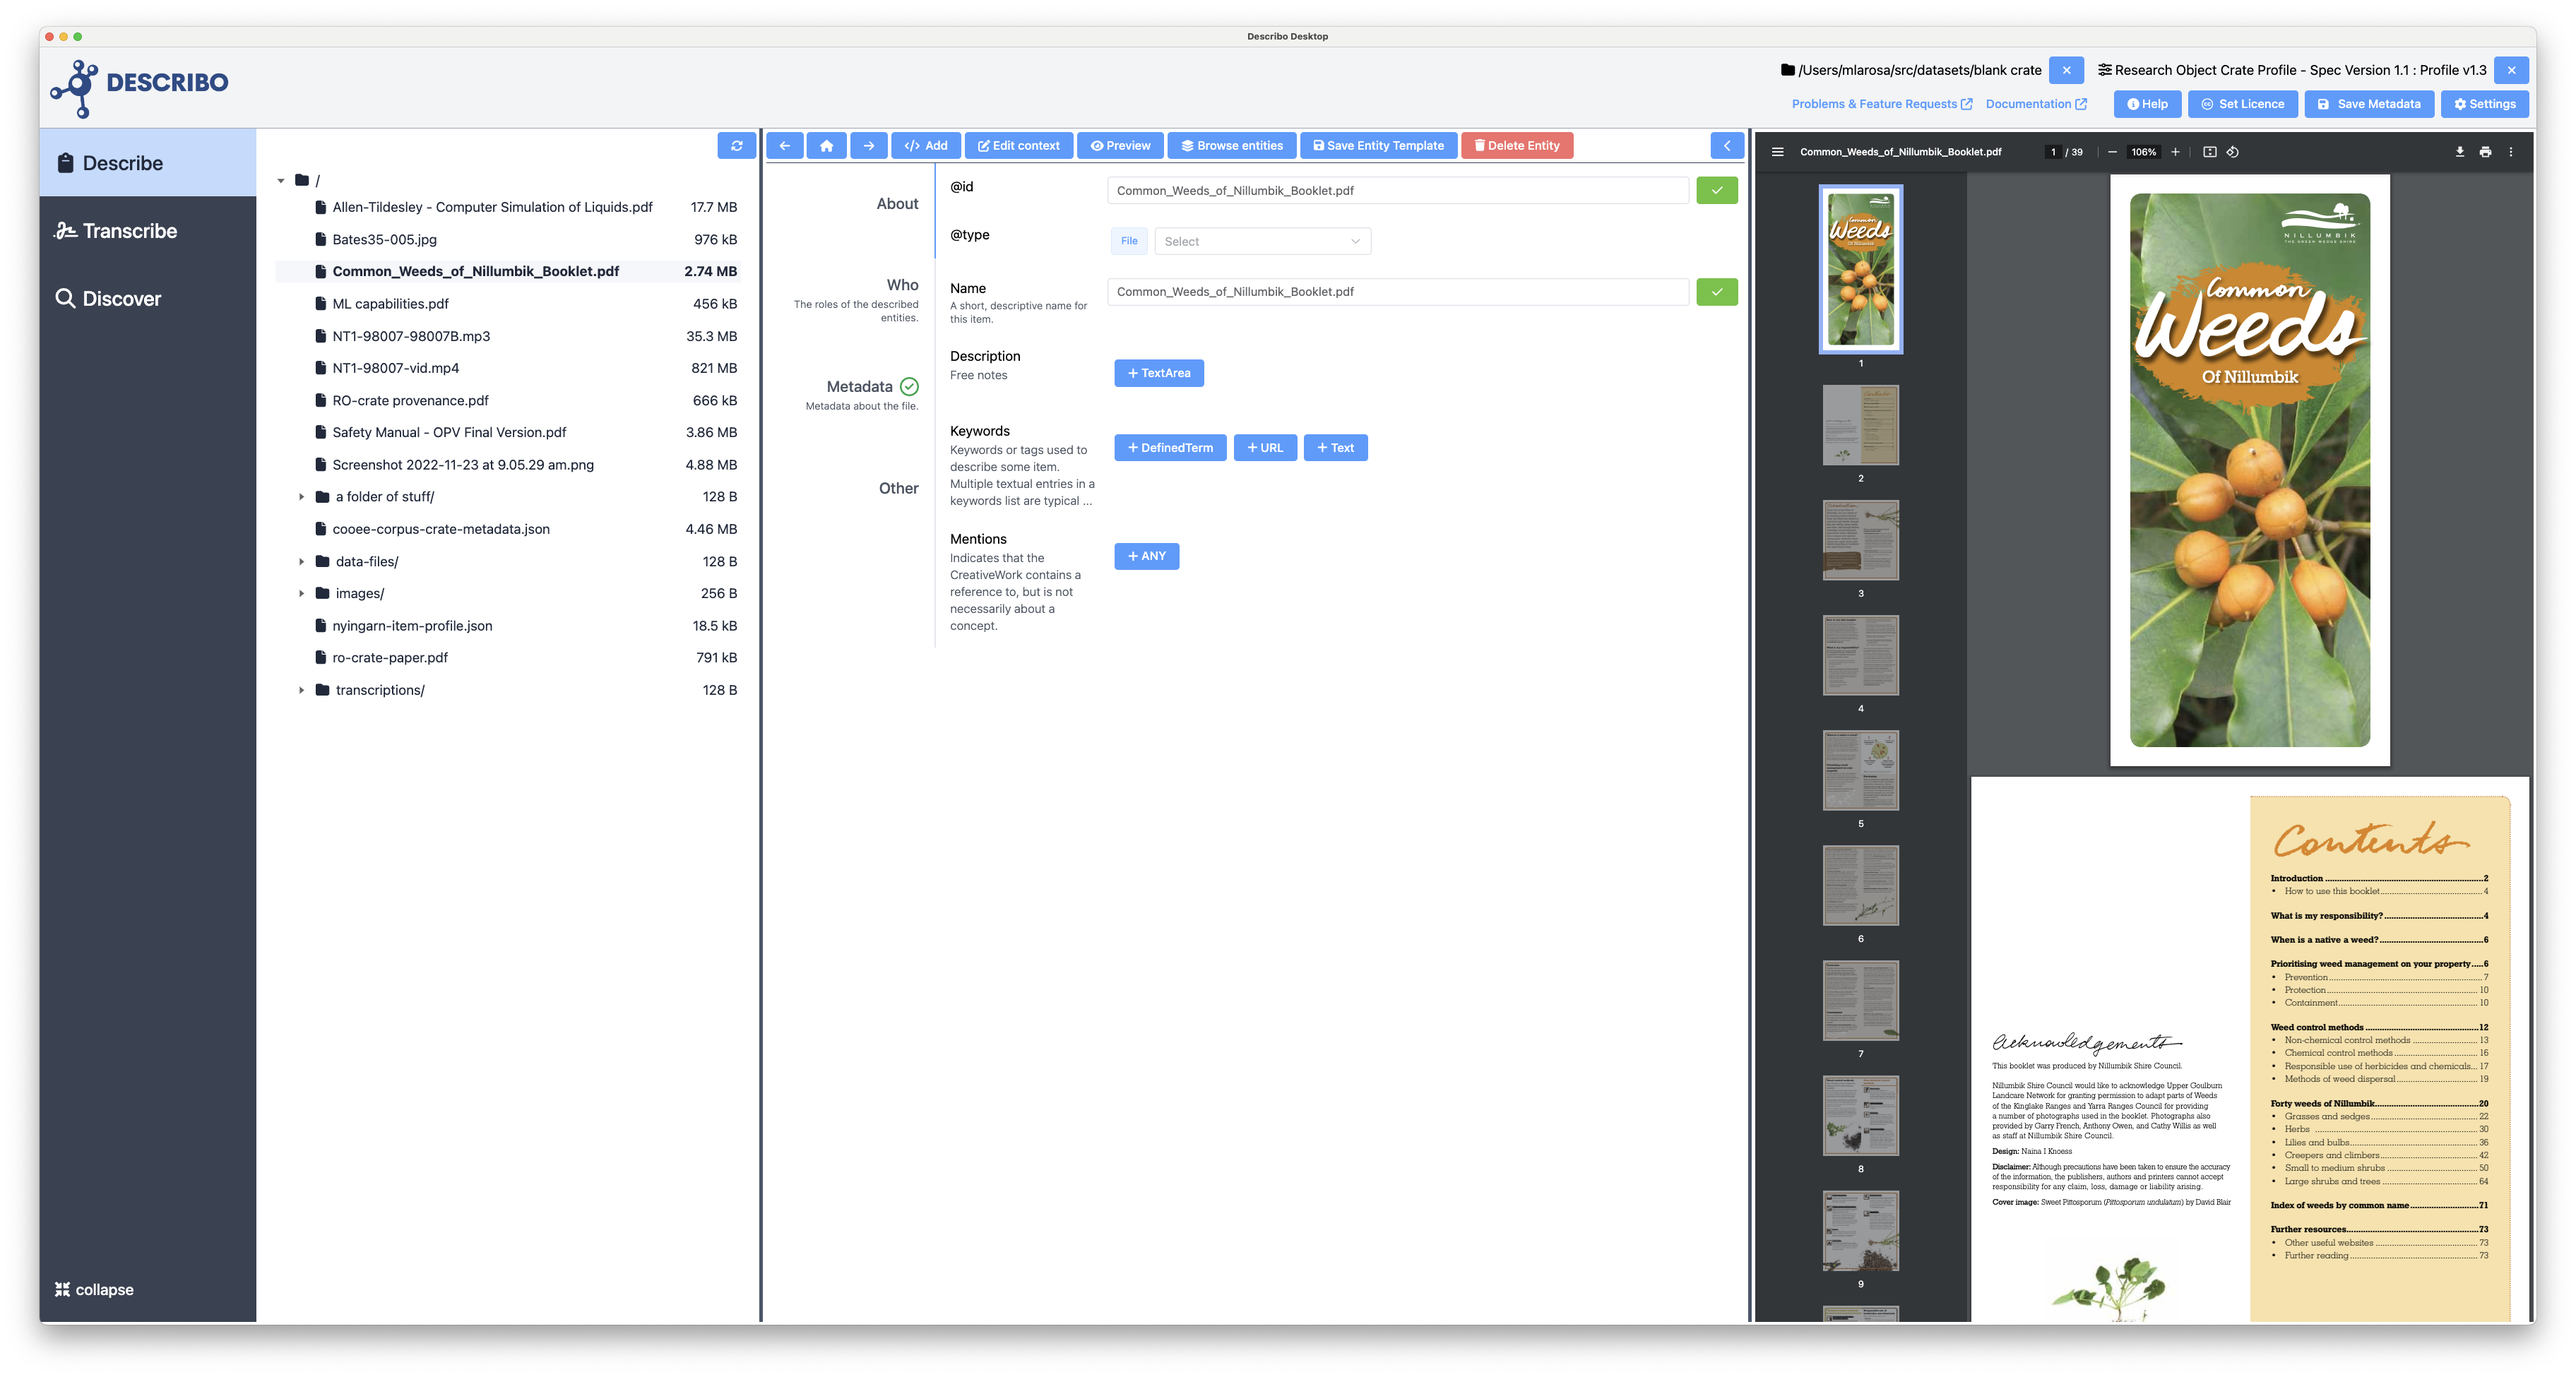
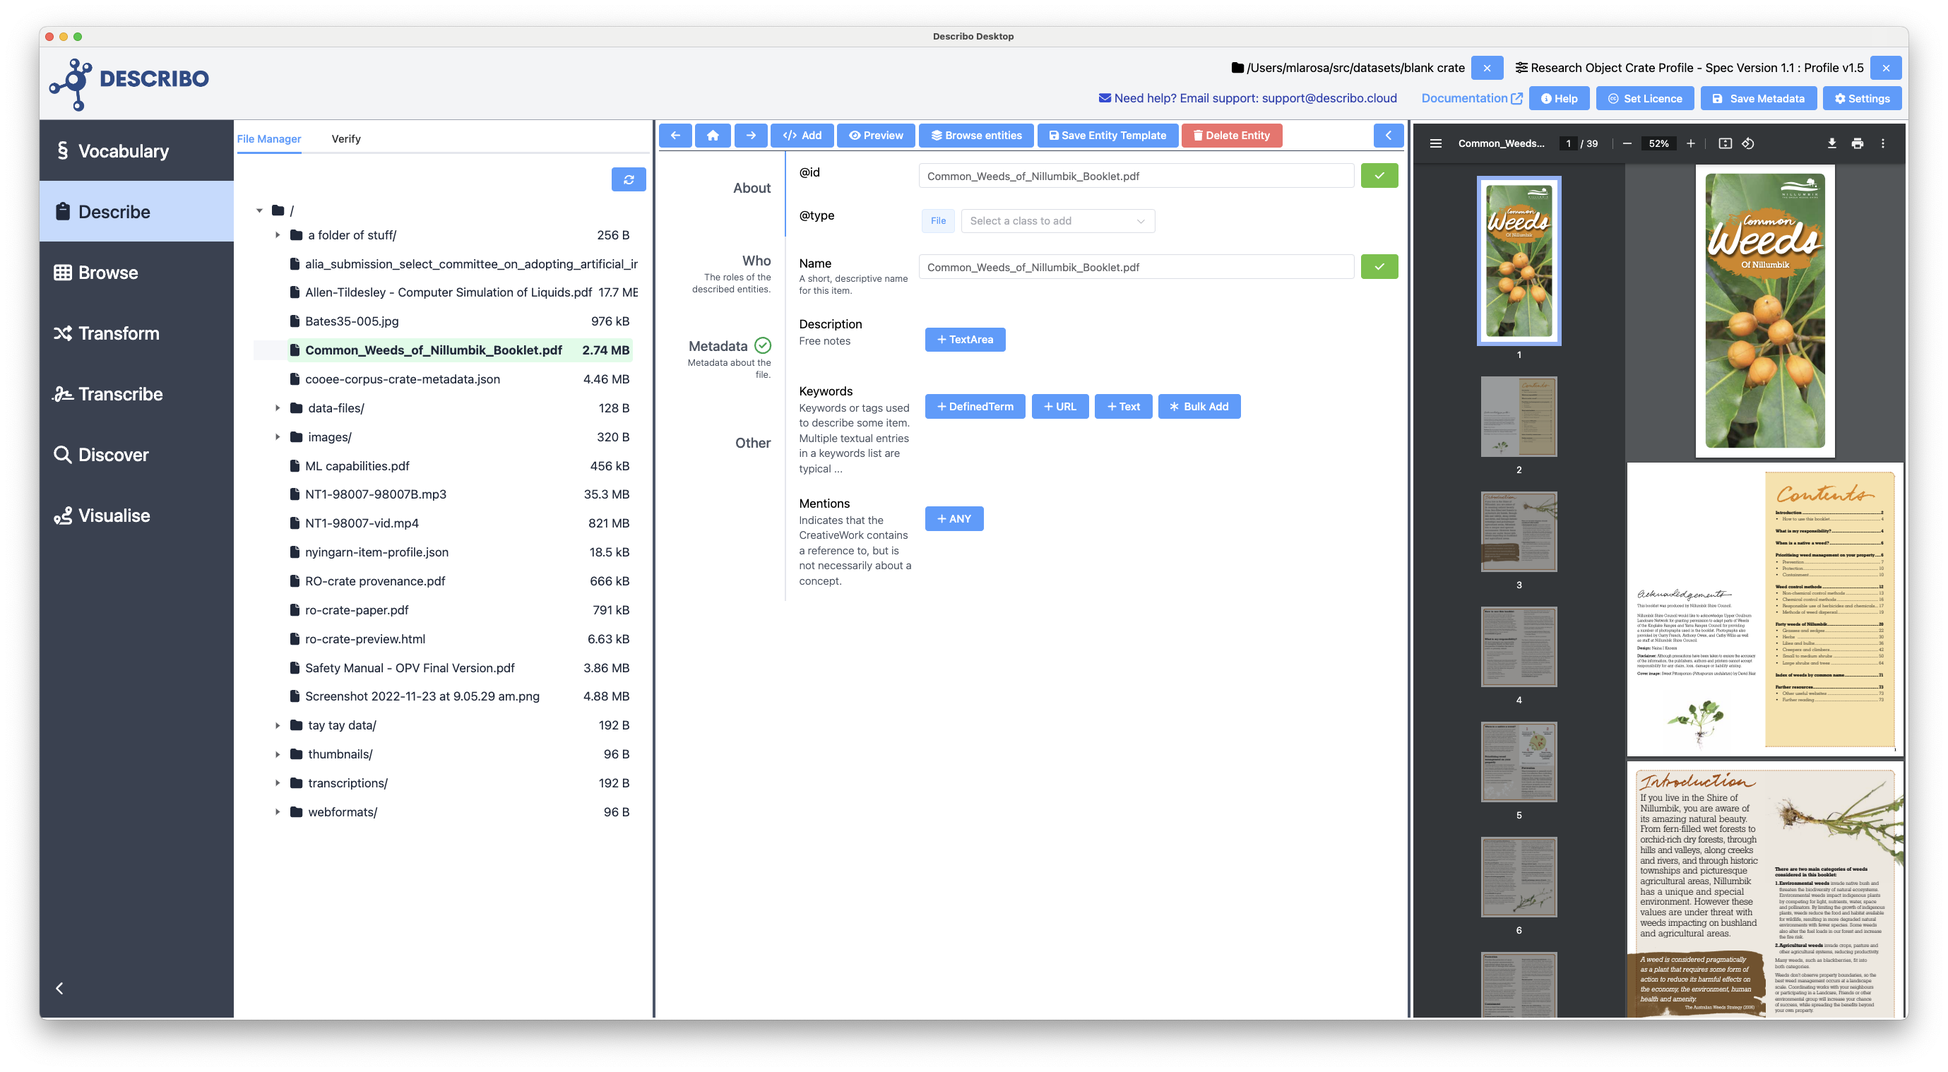
more content and updates

diff --git a/src/docs/guide/working-with-a-crate.md b/src/docs/guide/working-with-a-crate.md
@@ -46,12 +46,20 @@ The main editor window has a controls bar along the top. On it there are:
 
 <ImageComponent src="/images/guide-working-with-a-crate/controls.webp" />
 
+## Verifying the data
+
+A crucial aspect is verifying your work against the RO Crate specification to ensure that it's
+compliant. If you've registered and bought credits to use the assistant, you can use the AI
+Assistant to check your work against the spec.
+
+<ImageComponent src="/images/guide-working-with-a-crate/desktop6.webp" />
+
 ## Saving entities for re-use
 
 Often times, you will carefully craft an entity definition that will be useful elsewhere. An obvious
 example is when you define yourself as an author. In that case, your entity definition will have
 your name and a URL as your unique identifier (e.g. an ORCID) and you can save that definition as a
-template for re-use in other folders that you work on.
+template for re-use in other work.
 
 In the following image we can see what will be saved as a template. By setting depth to 1 linked
 entities will be resolved and included. Note that in both cases (depth 0 or 1) only properties will

diff --git a/src/docs/guide/five-minute-tutorial.md b/src/docs/guide/five-minute-tutorial.md
@@ -117,6 +117,16 @@ The buttons tell you what type of data is expected. If you add something and cha
 can delete / unlink it and do it again. Be sure to check out what you can describe in the individual
 sections (tabs) as well.
 
+Notice the button <span class="text-sm bg-blue-500 text-white py-1 px-2 rounded">\* Bulk Add</span>
+next to some of the properties? In cases where you want to describe a number of related entities all
+at once (e.g. multiple authors), you can use the bulk add controls to quickly add sets of entities.
+
+<ImageComponent src="/images/five-minute-tutorial/desktop5.webp" />
+
+When you're finished, you can use the AI Assistant to help you verify the data against the spec.
+
+<ImageComponent src="/images/five-minute-tutorial/desktop6.webp" />
+
 ## Useful information
 
 For those so inclined, you might want to read the following documentation from the specification
